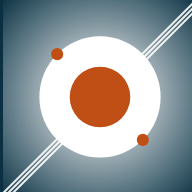
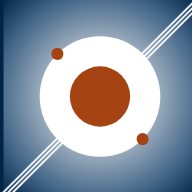
Re-anchor the palette, and rework the nav brand and menu
Design system v1.1 — the three colour anchors move and the family is
re-derived around them:

- ink    #0B3041 -> #002346  (deeper, bluer navy)
- accent #C04F15 -> #A64312  (primary / light)
- accent #E0703A -> #C04F15  (on dark)

The neutral scale shifts toward the new ink hue and the orange ramp shifts one
step darker, so both anchors keep their positions in it. Dark surfaces now sit
on the brand ink itself.

Consequences handled:
- Accent fills take white text in both themes. The darker accent drops dark ink
  to 2.8:1 on a button; white clears AA at 4.8:1.
- Links step one along the ramp (#8A3810 light, #D9713F dark), which is the rule
  the system already applied to light-mode links. #C04F15 cannot reach 4.5:1 on
  any dark background, so it is a graphic colour there, not a body-text one.

Nav:
- Logomark 34px -> 51px, nav bar 64px -> 76px to hold it.
- Menu items 0.76rem -> 1.14rem. At that size the row needs ~1380px, so the
  wider nav container and a higher collapse breakpoint; below it the drawer
  carries all eleven sections in full. The visible row keeps eight, with the
  longest labels shortened.
- Company name "R2 Digital LLC" -> "R2 Digital" throughout the page and PWA
  manifest; tagline -> "AI Transformation - Strategy - Delivery".

Assets regenerated on the new palette and copy: icons, og.png, hero.svg/png,
manifest colours, service-worker cache bumped to v3.

diff --git a/index.html b/index.html
@@ -3,17 +3,17 @@
 <head>
 <meta charset="utf-8">
 <meta name="viewport" content="width=device-width, initial-scale=1, viewport-fit=cover">
-<title>Data Engineering, Rebuilt by AI — R2 Digital LLC</title>
-<meta name="description" content="How AI is transforming Data Engineering: the gaps in traditional DE, the competencies and tooling map, an AI-powered DE reference architecture for the AI-first enterprise, and a phased migration roadmap. A point of view from R2 Digital LLC.">
-<meta name="author" content="Ravi Rali · R2 Digital LLC">
-<meta name="theme-color" content="#081E28" media="(prefers-color-scheme: dark)">
-<meta name="theme-color" content="#EEF0F4" media="(prefers-color-scheme: light)">
+<title>Data Engineering, Rebuilt by AI — R2 Digital</title>
+<meta name="description" content="How AI is transforming Data Engineering: the gaps in traditional DE, the competencies and tooling map, an AI-powered DE reference architecture for the AI-first enterprise, and a phased migration roadmap. A point of view from R2 Digital.">
+<meta name="author" content="Ravi Rali · R2 Digital">
+<meta name="theme-color" content="#00162C" media="(prefers-color-scheme: dark)">
+<meta name="theme-color" content="#EDF0F5" media="(prefers-color-scheme: light)">
 <link rel="manifest" href="manifest.webmanifest">
 <link rel="icon" href="R2-favicon.svg" type="image/svg+xml">
 <link rel="icon" href="icon-192.png" sizes="192x192">
 <link rel="apple-touch-icon" href="icon-192.png">
 <link rel="canonical" href="https://ravikrali.github.io/Data-Engineering/">
-<meta property="og:title" content="Data Engineering, Rebuilt by AI — R2 Digital LLC">
+<meta property="og:title" content="Data Engineering, Rebuilt by AI — R2 Digital">
 <meta property="og:description" content="From pipelines you write to pipelines you specify. The gaps in traditional DE, an AI-powered reference architecture, and a migration roadmap.">
 <meta property="og:type" content="article">
 <meta property="og:url" content="https://ravikrali.github.io/Data-Engineering/">
@@ -21,7 +21,7 @@
 <meta property="og:image:width" content="1200">
 <meta property="og:image:height" content="630">
 <meta name="twitter:card" content="summary_large_image">
-<meta name="twitter:title" content="Data Engineering, Rebuilt by AI — R2 Digital LLC">
+<meta name="twitter:title" content="Data Engineering, Rebuilt by AI — R2 Digital">
 <meta name="twitter:image" content="https://ravikrali.github.io/Data-Engineering/og.png">
 <link rel="preconnect" href="https://fonts.googleapis.com">
 <link rel="preconnect" href="https://fonts.gstatic.com" crossorigin>
@@ -35,8 +35,8 @@
    ============================================================ */
 :root{
   /* ---------- brand core (from the logo) ---------- */
-  --r2-ink:#0B3041; --r2-orange:#C04F15; --r2-orange-bright:#E0703A;
-  --r2-steel:#506E7B; --r2-mist:#9EADB4; --r2-silver:#D6DDE0;
+  --r2-ink:#002346; --r2-orange:#A64312; --r2-orange-bright:#C04F15;
+  --r2-steel:#47698A; --r2-mist:#9BACBD; --r2-silver:#D3DBE4;
 
   /* ---------- type ---------- */
   --font-display:'Space Grotesk',system-ui,-apple-system,'Segoe UI',Roboto,sans-serif;
@@ -62,7 +62,7 @@
 
   /* ---------- geometry ---------- */
   --r-s:8px; --r-m:12px; --r-l:18px; --r-xl:28px;
-  --nav-h:64px; --maxw:1180px;
+  --nav-h:76px; --maxw:1180px;
   --sp:clamp(1rem,.5rem + 2.5vw,2rem);
   --sec-y:clamp(3.5rem,2rem + 7vw,7.5rem);
 
@@ -74,16 +74,17 @@
 
 /* ---------- SEMANTIC — DARK (default: the marketing look) ---------- */
 :root,:root[data-theme="dark"]{
-  --bg:#081E28; --bg-2:#0A2430;
-  --surface:#0F2A38; --surface-2:#123240; --surface-3:#17404F;
-  --line:#1E3D4C; --line-2:#2C5A6E;
-  --ink:#EAF1F4; --ink-2:#C6D5DC; --muted:#9EADB4; --faint:#6E8791;
-  --accent:#E0703A; --accent-2:#EC9268; --accent-soft:#F6C4AB;
-  --on-accent:#0B1A22;
-  --agent:#E0703A;                 /* the AI plane carries the brand signal */
-  --steel:#79ADC6; --gold:#E2AC4A; --crimson:#DE5A63;
+  --bg:#00162C; --bg-2:#001B36;
+  --surface:#002346; --surface-2:#052C52; --surface-3:#0B3760;
+  --line:#123A5E; --line-2:#1C5077;
+  --ink:#E8EFF7; --ink-2:#C2D2E4; --muted:#9BACBD; --faint:#64798F;
+  --accent:#C04F15; --accent-2:#D9713F; --accent-soft:#EFBFA6;
+  --on-accent:#FFFFFF;
+  --agent:#C04F15;                 /* the AI plane carries the brand signal */
+  --steel:#72A9D0; --gold:#E2AC4A; --crimson:#DE5A63;
   --ok:#4FB795; --ok-soft:#A9E3CE; --crimson-soft:#F2B6BA;
-  --legacy:#8FA6B0; --legacy-soft:#C6D5DC;   /* "the old way" — deliberately desaturated */
+  --legacy:#8CA3BD; --legacy-soft:#C2D2E4;   /* "the old way" — deliberately desaturated */
+  --link:#D9713F; --link-hover:#E89066;      /* one ramp step up from the accent: AA on dark */
   --focus-ring:0 0 0 3px color-mix(in srgb,var(--accent) 40%,transparent);
   --shadow-md:0 8px 24px rgba(0,0,0,.45);
   --shadow-lg:0 18px 44px rgba(0,0,0,.55);
@@ -92,19 +93,20 @@
 
 /* ---------- SEMANTIC — LIGHT (the reading look) ---------- */
 :root[data-theme="light"]{
-  --bg:#EEF0F4; --bg-2:#F5F7FA;
-  --surface:#FFFFFF; --surface-2:#F5F7FA; --surface-3:#EEF0F4;
-  --line:#E1E6F0; --line-2:#C3CDD3;
-  --ink:#0B3041; --ink-2:#1D485B; --muted:#506E7B; --faint:#7A929B;
-  --accent:#C04F15; --accent-2:#A5410F; --accent-soft:#8F380D;
+  --bg:#EDF0F5; --bg-2:#F5F7FA;
+  --surface:#FFFFFF; --surface-2:#F5F7FA; --surface-3:#EDF0F5;
+  --line:#DFE5EE; --line-2:#C2CDD9;
+  --ink:#002346; --ink-2:#0E3D67; --muted:#47698A; --faint:#74899F;
+  --accent:#A64312; --accent-2:#8A3810; --accent-soft:#6E2A08;
   --on-accent:#FFFFFF;
-  --agent:#C04F15;
-  --steel:#2C5A6E; --gold:#8A6608; --crimson:#B0323C;
+  --agent:#A64312;
+  --steel:#1C5077; --gold:#8A6608; --crimson:#B0323C;
   --ok:#1A7F5A; --ok-soft:#125B41; --crimson-soft:#8E2730;
-  --legacy:#506E7B; --legacy-soft:#1D485B;
+  --legacy:#47698A; --legacy-soft:#0E3D67;
+  --link:#8A3810; --link-hover:#6E2A08;
   --focus-ring:0 0 0 3px color-mix(in srgb,var(--accent) 35%,transparent);
-  --shadow-md:0 8px 24px rgba(11,48,65,.10);
-  --shadow-lg:0 18px 44px rgba(11,48,65,.14);
+  --shadow-md:0 8px 24px rgba(0, 35, 70,.10);
+  --shadow-lg:0 18px 44px rgba(0, 35, 70,.14);
   color-scheme:light;
 }
 *,*::before,*::after{box-sizing:border-box}
@@ -128,8 +130,8 @@ body::before{
 h1,h2,h3,h4,h5{font-family:var(--font-display);font-weight:600;line-height:1.08;letter-spacing:-.02em;margin:0}
 h1,h2{font-weight:700}
 p{margin:0 0 1em}
-a{color:var(--accent);text-decoration:none}
-a:hover{color:var(--accent-2);text-decoration:underline}
+a{color:var(--link);text-decoration:none}
+a:hover{color:var(--link-hover);text-decoration:underline}
 .mono{font-family:var(--font-mono)}
 :focus-visible{outline:none;box-shadow:var(--focus-ring);border-radius:var(--r-s)}
 
@@ -153,14 +155,20 @@ h2{font-size:var(--f-h2);margin-bottom:.85rem}
   -webkit-backdrop-filter:blur(18px) saturate(160%);
   border-bottom:1px solid var(--line);
 }
-.nav-in{height:100%;display:flex;align-items:center;gap:1.2rem}
-.brand{display:flex;align-items:center;gap:.65rem;flex:none;text-decoration:none;color:var(--ink)}
+/* the nav gets its own, wider container — the larger logomark and menu type
+   need more room than the 1180px reading measure */
+.nav .wrap{width:min(100% - 2*var(--sp),1520px)}
+.nav-in{height:100%;display:flex;align-items:center;gap:1rem}
+.brand{display:flex;align-items:center;gap:.7rem;flex:none;text-decoration:none;color:var(--ink)}
 .brand:hover{text-decoration:none}
 /* the orbital logomark — the only place the badge gradient appears */
 .brand-mark{width:34px;height:34px;flex:none;display:block;border-radius:var(--r-s)}
-.brand-txt{display:flex;flex-direction:column;line-height:1.1}
+.nav .brand-mark{width:51px;height:51px;border-radius:11px}
+.brand-txt{display:flex;flex-direction:column;line-height:1.15}
 .brand-txt b{font-family:var(--font-display);font-size:.95rem;font-weight:700;letter-spacing:-.01em}
 .brand-txt span{font-family:var(--font-display);font-size:.56rem;font-weight:500;letter-spacing:var(--tracking-caps);color:var(--accent);text-transform:uppercase}
+.nav .brand-txt b{font-size:1.15rem}
+.nav .brand-txt span{font-size:.52rem;letter-spacing:.07em}
 
 /* theme toggle */
 .themebtn{
@@ -177,7 +185,7 @@ h2{font-size:var(--f-h2);margin-bottom:.85rem}
 .nav-links{display:flex;gap:.15rem;margin-left:auto;overflow-x:auto;scrollbar-width:none;mask-image:linear-gradient(90deg,transparent,#000 12px,#000 calc(100% - 12px),transparent)}
 .nav-links::-webkit-scrollbar{display:none}
 .nav-links a{
-  font-size:.76rem;color:var(--muted);padding:.42rem .55rem;border-radius:var(--r-s);white-space:nowrap;
+  font-size:1.14rem;color:var(--muted);padding:.4rem .45rem;border-radius:var(--r-s);white-space:nowrap;
   transition:color .2s,background .2s;font-weight:400;
 }
 .nav-links a:hover{color:var(--ink);background:color-mix(in srgb,var(--ink) 5%,transparent);text-decoration:none}
@@ -185,9 +193,11 @@ h2{font-size:var(--f-h2);margin-bottom:.85rem}
 .nav-cta{flex:none;margin-left:.4rem}
 .themebtn{margin-left:.45rem}
 .burger{margin-left:.45rem}
-@media(max-width:1180px){.nav-links{display:none}.themebtn{margin-left:auto}}
-@media(max-width:720px){.btn.nav-cta{display:none}}
-@media(max-width:400px){.brand-txt span{display:none}.brand-txt b{font-size:.88rem}}
+/* at 50% larger type the menu needs ~1380px to sit on one line; below that it
+   collapses into the drawer, which carries all eleven sections in full */
+@media(max-width:1380px){.nav-links{display:none}.nav-cta{margin-left:auto}}
+@media(max-width:720px){.btn.nav-cta{display:none}.themebtn{margin-left:auto}}
+@media(max-width:560px){.nav .brand-txt span{display:none}.nav .brand-txt b{font-size:1.02rem}.nav .brand-mark{width:44px;height:44px}}
 
 .btn{
   display:inline-flex;align-items:center;gap:.5rem;border:0;cursor:pointer;
@@ -203,7 +213,7 @@ h2{font-size:var(--f-h2);margin-bottom:.85rem}
 .btn.lg{font-size:.95rem;padding:.85rem 1.5rem}
 
 .burger{display:none;margin-left:auto;background:transparent;border:1px solid var(--line-2);border-radius:var(--r-s);width:38px;height:34px;cursor:pointer;color:var(--ink-2);align-items:center;justify-content:center}
-@media(max-width:1180px){.burger{display:flex}}
+@media(max-width:1380px){.burger{display:flex}}
 .drawer{
   position:fixed;inset:var(--nav-h) 0 0 0;z-index:99;background:color-mix(in srgb,var(--bg) 97%,transparent);
   backdrop-filter:blur(20px);padding:1.5rem var(--sp);overflow-y:auto;
@@ -230,7 +240,7 @@ h1{font-size:var(--f-h1);letter-spacing:-.035em;margin-bottom:1.25rem}
 h1 .g{background:linear-gradient(110deg,var(--accent) 0%,var(--accent-2) 55%,var(--accent) 100%);-webkit-background-clip:text;background-clip:text;color:transparent}
 .hero p.lede{max-width:60ch;margin-bottom:1.8rem}
 .byline{display:flex;align-items:center;gap:.7rem;margin:-.2rem 0 1.5rem}
-.by-av{width:34px;height:34px;border-radius:50%;flex:none;background:radial-gradient(circle at 50% 42%,#FFFFFF 0%,#D6DDE0 18%,#9EADB4 46%,#506E7B 74%,#0B3041 100%);display:grid;place-items:center;font-family:var(--font-display);font-weight:700;font-size:.78rem;color:#FFFFFF;text-shadow:0 1px 2px rgba(11,48,65,.55)}
+.by-av{width:34px;height:34px;border-radius:50%;flex:none;background:radial-gradient(circle at 50% 42%,#FFFFFF 0%,#D3DBE4 18%,#9BACBD 46%,#47698A 74%,#002346 100%);display:grid;place-items:center;font-family:var(--font-display);font-weight:700;font-size:.78rem;color:#FFFFFF;text-shadow:0 1px 2px rgba(0, 35, 70,.55)}
 .by-txt{font-size:.85rem;color:var(--muted)}
 .by-txt b{color:var(--ink);font-weight:500}
 .hero-cta{display:flex;flex-wrap:wrap;gap:.75rem;margin-bottom:2.2rem}
@@ -568,13 +578,13 @@ svg text{font-family:var(--font-body)}
 
 <nav class="nav">
   <div class="wrap nav-in">
-    <a class="brand" href="#top" aria-label="R2 Digital LLC — home">
+    <a class="brand" href="#top" aria-label="R2 Digital — home">
       <svg class="brand-mark" viewBox="0 0 480 480" aria-hidden="true" focusable="false">
         <defs>
           <radialGradient id="r2nav" cx="50%" cy="50%" r="72%">
-            <stop offset="0%" stop-color="#FFFFFF"/><stop offset="16%" stop-color="#D6DDE0"/>
-            <stop offset="42%" stop-color="#9EADB4"/><stop offset="72%" stop-color="#506E7B"/>
-            <stop offset="100%" stop-color="#0B3041"/>
+            <stop offset="0%" stop-color="#FFFFFF"/><stop offset="16%" stop-color="#D3DBE4"/>
+            <stop offset="42%" stop-color="#9BACBD"/><stop offset="72%" stop-color="#47698A"/>
+            <stop offset="100%" stop-color="#002346"/>
           </radialGradient>
           <clipPath id="r2navc"><rect width="480" height="480" rx="96"/></clipPath>
         </defs>
@@ -584,24 +594,21 @@ svg text{font-family:var(--font-body)}
             <path d="M-8 486L486 -8"/><path d="M-2 492L492 -2"/><path d="M4 498L498 4"/>
           </g>
           <circle cx="240" cy="240" r="150" fill="#FFFFFF"/>
-          <circle cx="240" cy="240" r="75" fill="#C04F15"/>
-          <g fill="#C04F15" class="r2-sat"><circle cx="134" cy="134" r="15"/><circle cx="346" cy="346" r="15"/></g>
+          <circle cx="240" cy="240" r="75" fill="#A64312"/>
+          <g fill="#A64312" class="r2-sat"><circle cx="134" cy="134" r="15"/><circle cx="346" cy="346" r="15"/></g>
         </g>
       </svg>
-      <span class="brand-txt"><b>R2 Digital LLC</b><span>AI · Data · Architecture</span></span>
+      <span class="brand-txt"><b>R2 Digital</b><span>AI Transformation - Strategy - Delivery</span></span>
     </a>
     <div class="nav-links" id="navlinks">
       <a href="#signal">Signal</a>
-      <a href="#summary">Executive Summary</a>
+      <a href="#summary">Summary</a>
       <a href="#gaps">Gaps</a>
       <a href="#competencies">Competencies</a>
-      <a href="#projects">Project Map</a>
-      <a href="#field">From the Field</a>
-      <a href="#leverage">AI Leverage</a>
+      <a href="#leverage">Leverage</a>
       <a href="#architecture">Architecture</a>
       <a href="#redesign">Redesign</a>
       <a href="#roadmap">Roadmap</a>
-      <a href="#references">References</a>
     </div>
     <button class="btn nav-cta" data-open-modal>Free consultation</button>
     <button class="themebtn" id="themebtn" type="button" aria-label="Switch colour theme" title="Switch colour theme">
@@ -635,7 +642,7 @@ svg text{font-family:var(--font-body)}
       <h1>Data Engineering,<br><span class="g">rebuilt by AI</span></h1>
       <div class="byline">
         <span class="by-av">RR</span>
-        <span class="by-txt"><b>Ravi Rali</b> · Founder, R2 Digital LLC<br>Data &amp; AI architecture · enterprise transformation</span>
+        <span class="by-txt"><b>Ravi Rali</b> · Founder, R2 Digital<br>Data &amp; AI architecture · enterprise transformation</span>
       </div>
       <p class="lede">For twenty years data engineering optimised one thing: moving rows reliably from systems of record to dashboards. That job is now the smaller half. AI has changed both what we build pipelines <em>with</em> and what we build them <em>for</em> — and the discipline is being rebuilt from the connector up.</p>
       <div class="hero-cta">
@@ -1784,7 +1791,7 @@ svg text{font-family:var(--font-body)}
     <div class="cta-band rv">
       <div class="eyebrow" style="justify-content:center">Free consultation</div>
       <h2>Where would this land in your estate?</h2>
-      <p class="lede">Every platform is different — the pipeline count, the legacy tooling, the state of governance, the appetite for autonomy. A 45-minute working session with R2 Digital LLC: we look at your current data engineering footprint, identify where AI leverage is real versus marketing, and sketch a first-90-days sequence. No cost, no obligation.</p>
+      <p class="lede">Every platform is different — the pipeline count, the legacy tooling, the state of governance, the appetite for autonomy. A 45-minute working session with R2 Digital: we look at your current data engineering footprint, identify where AI leverage is real versus marketing, and sketch a first-90-days sequence. No cost, no obligation.</p>
       <div class="cta-actions">
         <button class="btn lg" data-open-modal>Request a free consultation</button>
         <a class="btn ghost lg" href="mailto:contact@r2dw.com">Email us directly</a>
@@ -1798,7 +1805,7 @@ svg text{font-family:var(--font-body)}
   <div class="wrap">
     <div class="sec-head rv">
       <div class="eyebrow">Further Reading</div>
-      <h2>More from R2 Digital LLC</h2>
+      <h2>More from R2 Digital</h2>
       <p class="lede">This piece is part of a series on building the AI-first enterprise. Each stands alone; together they cover strategy, investment, master data and now the engineering foundation.</p>
     </div>
 
@@ -1865,9 +1872,9 @@ svg text{font-family:var(--font-body)}
         <svg class="brand-mark" viewBox="0 0 480 480" aria-hidden="true" focusable="false">
           <defs>
             <radialGradient id="r2foot" cx="50%" cy="50%" r="72%">
-              <stop offset="0%" stop-color="#FFFFFF"/><stop offset="16%" stop-color="#D6DDE0"/>
-              <stop offset="42%" stop-color="#9EADB4"/><stop offset="72%" stop-color="#506E7B"/>
-              <stop offset="100%" stop-color="#0B3041"/>
+              <stop offset="0%" stop-color="#FFFFFF"/><stop offset="16%" stop-color="#D3DBE4"/>
+              <stop offset="42%" stop-color="#9BACBD"/><stop offset="72%" stop-color="#47698A"/>
+              <stop offset="100%" stop-color="#002346"/>
             </radialGradient>
             <clipPath id="r2footc"><rect width="480" height="480" rx="96"/></clipPath>
           </defs>
@@ -1877,11 +1884,11 @@ svg text{font-family:var(--font-body)}
               <path d="M-8 486L486 -8"/><path d="M-2 492L492 -2"/><path d="M4 498L498 4"/>
             </g>
             <circle cx="240" cy="240" r="150" fill="#FFFFFF"/>
-            <circle cx="240" cy="240" r="75" fill="#C04F15"/>
-            <g fill="#C04F15"><circle cx="134" cy="134" r="15"/><circle cx="346" cy="346" r="15"/></g>
+            <circle cx="240" cy="240" r="75" fill="#A64312"/>
+            <g fill="#A64312"><circle cx="134" cy="134" r="15"/><circle cx="346" cy="346" r="15"/></g>
           </g>
         </svg>
-        <span class="brand-txt"><b>R2 Digital LLC</b><span>AI · Data · Architecture</span></span>
+        <span class="brand-txt"><b>R2 Digital</b><span>AI Transformation - Strategy - Delivery</span></span>
       </div>
       <small>Data &amp; AI architecture, master data and enterprise transformation.<br>Written by Ravi Rali · July 2026 · Views are the author's own.</small>
     </div>
@@ -1899,7 +1906,7 @@ svg text{font-family:var(--font-body)}
 <div class="modal" id="modal" role="dialog" aria-modal="true" aria-labelledby="mtitle">
   <div class="modal-in">
     <button class="modal-x" data-close-modal aria-label="Close">✕</button>
-    <div class="eyebrow">R2 Digital LLC</div>
+    <div class="eyebrow">R2 Digital</div>
     <h3 id="mtitle">Free consultation</h3>
     <p class="sub" style="margin-bottom:1.4rem">Tell us about your data engineering estate and what you are trying to unlock. We reply to every enquiry within two business days.</p>
     <div class="ok-msg" id="okmsg">Thank you — your request has been sent. We reply to every enquiry within two business days.</div>
@@ -1978,7 +1985,7 @@ svg text{font-family:var(--font-body)}
       document.documentElement.dataset.theme = next;
       try{ localStorage.setItem("r2-theme", next); }catch(e){}
       var m=document.querySelector('meta[name="theme-color"]:not([media])');
-      if(m) m.setAttribute("content", next==="light" ? "#EEF0F4" : "#081E28");
+      if(m) m.setAttribute("content", next==="light" ? "#EDF0F5" : "#00162C");
     });
   });
 
@@ -2046,12 +2053,12 @@ svg text{font-family:var(--font-body)}
 
   var AUTORESPONSE =
     "Hi,\n\n" +
-    "Thank you for reaching out to R2 Digital LLC. We have received your consultation request " +
+    "Thank you for reaching out to R2 Digital. We have received your consultation request " +
     "and will get back to you at the earliest — typically within two business days.\n\n" +
     "In the meantime, feel free to reply to this email with anything else you'd like us to " +
     "review ahead of the session.\n\n" +
     "Warm regards,\n" +
-    "R2 Digital LLC · Data & AI Strategy";
+    "R2 Digital · AI Transformation · Strategy · Delivery";
 
   var okmsg=$("#okmsg"), errmsg=$("#errmsg"), submitBtn=$("#submitbtn"),
       nameEl=$("#f-name"), emailEl=$("#f-email"), toast=$("#toast");

diff --git a/sw.js b/sw.js
@@ -1,8 +1,8 @@
-/* R2 Digital LLC — Data Engineering, Rebuilt by AI
+/* R2 Digital — Data Engineering, Rebuilt by AI
    Offline-capable service worker: cache-first for the app shell,
    network-first for navigations so content updates are picked up. */
 
-var CACHE = "r2-dataeng-v2";
+var CACHE = "r2-dataeng-v3";
 var SHELL = [
   "./",
   "./index.html",

diff --git a/README.md b/README.md
@@ -1,6 +1,6 @@
-# Data Engineering, Rebuilt by AI — R2 Digital LLC
+# Data Engineering, Rebuilt by AI — R2 Digital
 
-A single-page progressive web app presenting R2 Digital LLC's point of view on how AI is
+A single-page progressive web app presenting R2 Digital's point of view on how AI is
 transforming data engineering, and what an AI-powered DE platform looks like inside an
 AI-first enterprise data architecture.
 
@@ -48,13 +48,16 @@ imported, so the page stays a single self-contained file.
 
 - **Identity** — the orbital logomark (white ring, orange core, orbiting satellites),
   inlined as SVG in the nav and footer; `R2-favicon.svg` for the tab.
-- **Colour** — ink `#0B3041` / accent `#C04F15` (`#E0703A` on dark), with a cool neutral
+- **Colour** — ink `#002346` / accent `#A64312` (`#C04F15` on dark), with a cool neutral
   scale. Orange is treated as a signal, not a background: it carries the AI/agent plane,
   CTAs, links and the roadmap's climax phase. Supporting hues (steel, gold, crimson,
   desaturated "legacy" slate, success green) are used only to separate meaning in
-  diagrams.
+  diagrams. Accent fills always take white text; links step one along the ramp
+  (`#8A3810` light, `#D9713F` dark) to hold contrast.
 - **Type** — Space Grotesk (display) + Inter (body) + the system mono stack for labels,
-  on the design system's fluid 1.20 scale.
+  on the design system's fluid 1.20 scale. The top menu runs at `1.14rem` and the nav
+  logomark at 51px, so the horizontal menu needs ~1380px; below that it collapses into
+  the drawer, which carries all eleven sections in full.
 - **Themes** — ships light and dark, driven by `data-theme` on `<html>`. Dark is the
   default marketing look; light is the reading look. The choice persists in
   `localStorage` under `r2-theme` and falls back to the OS preference.
